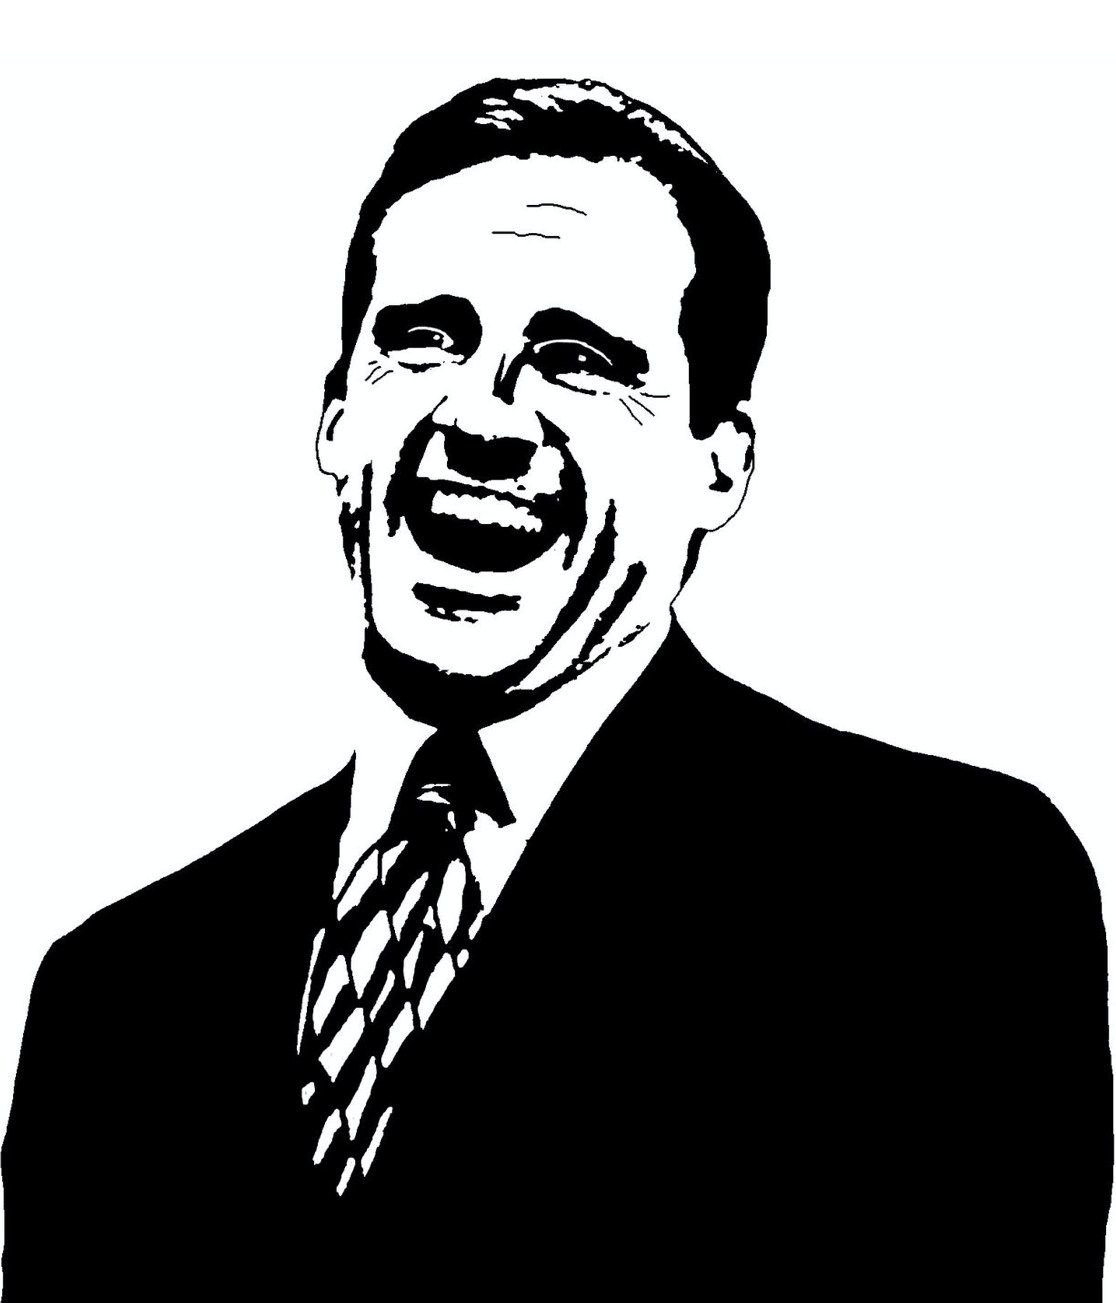
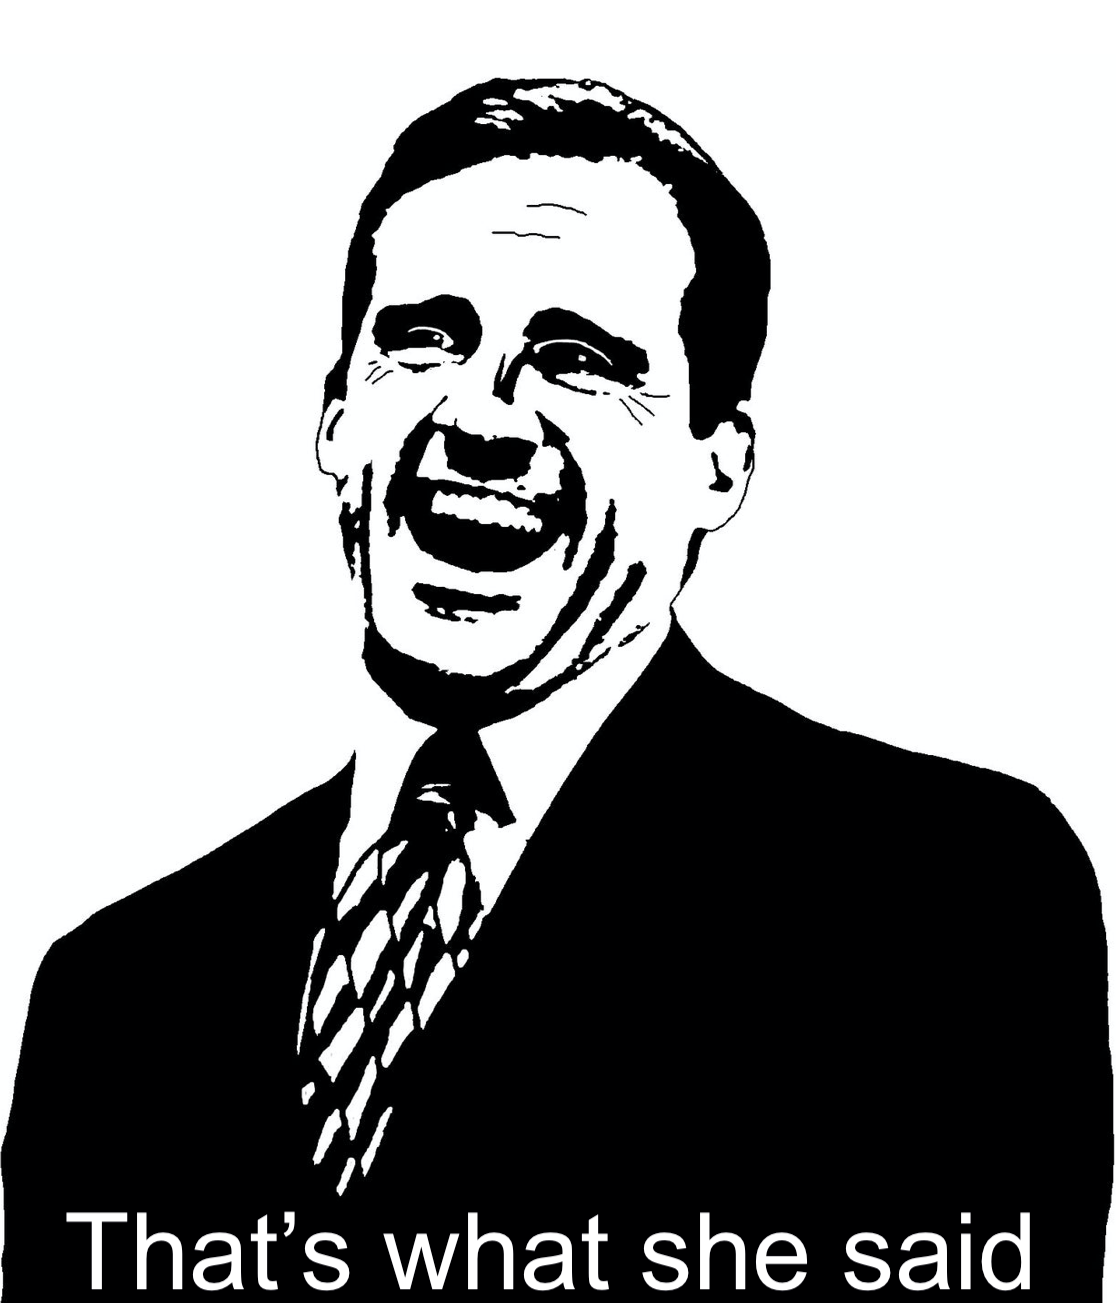
z index & responsiveness

Changed region(s): [[0.0609, 0.921, 0.5484, 1.0], [0.7616, 0.921, 0.9444, 1.0], [0.5789, 0.921, 0.7312, 1.0]]

diff --git a/style.css b/style.css
@@ -10,27 +10,24 @@ body {
     font-family: "American Typewriter Regular", sans-serif;
 }
 
+#container1 {
+    z-index: 1;
+    top: 0;
+    left: 0;
+    position: absolute;
+    width: 100%;
+    height: auto;
+}
+
 #line { 
-    text-shadow: 1px 1px 2px rgb(43, 54, 56);
-    margin-bottom: 10px;
-    width: 365px;
-    font-size: 180%; 
-    color: black;
+    text-shadow: black 2px 2px 2px;
+    font-size: 5vh; 
+    color: #C8894F;
 }
 
 #scott {
-    margin-top: 10px;
-    margin-left: 0px;
-    padding-left: 0px;
     position: absolute;
-    top: 150px;
-}
-
-#sheSaid {
-    position: absolute;
-    top: 520px;
-    color: white;
-    text-shadow: 1px 1px 2px darkgray;
-    font-size: 2em;
-    left: 45px;
+    bottom: 0;
+    width: 100%;
+    height: auto;
 }

diff --git a/index.html b/index.html
@@ -13,10 +13,12 @@
     <div id="container1">
         <h1 id="line"></h1>
     </div>
+    <div>
+        <img src="images/MS.png" alt="Michael Scott" id="scott">
+    </div>
 
-    <img src="images/MS.png" alt="Michael Scott" height="400px" width ="400px" id="scott">
 
-    <div id="sheSaid">That's what she said.</div>
+    <!-- <div id="sheSaid">That's what she said.</div> -->
 
     <script src=app.js></script>
 </body>
